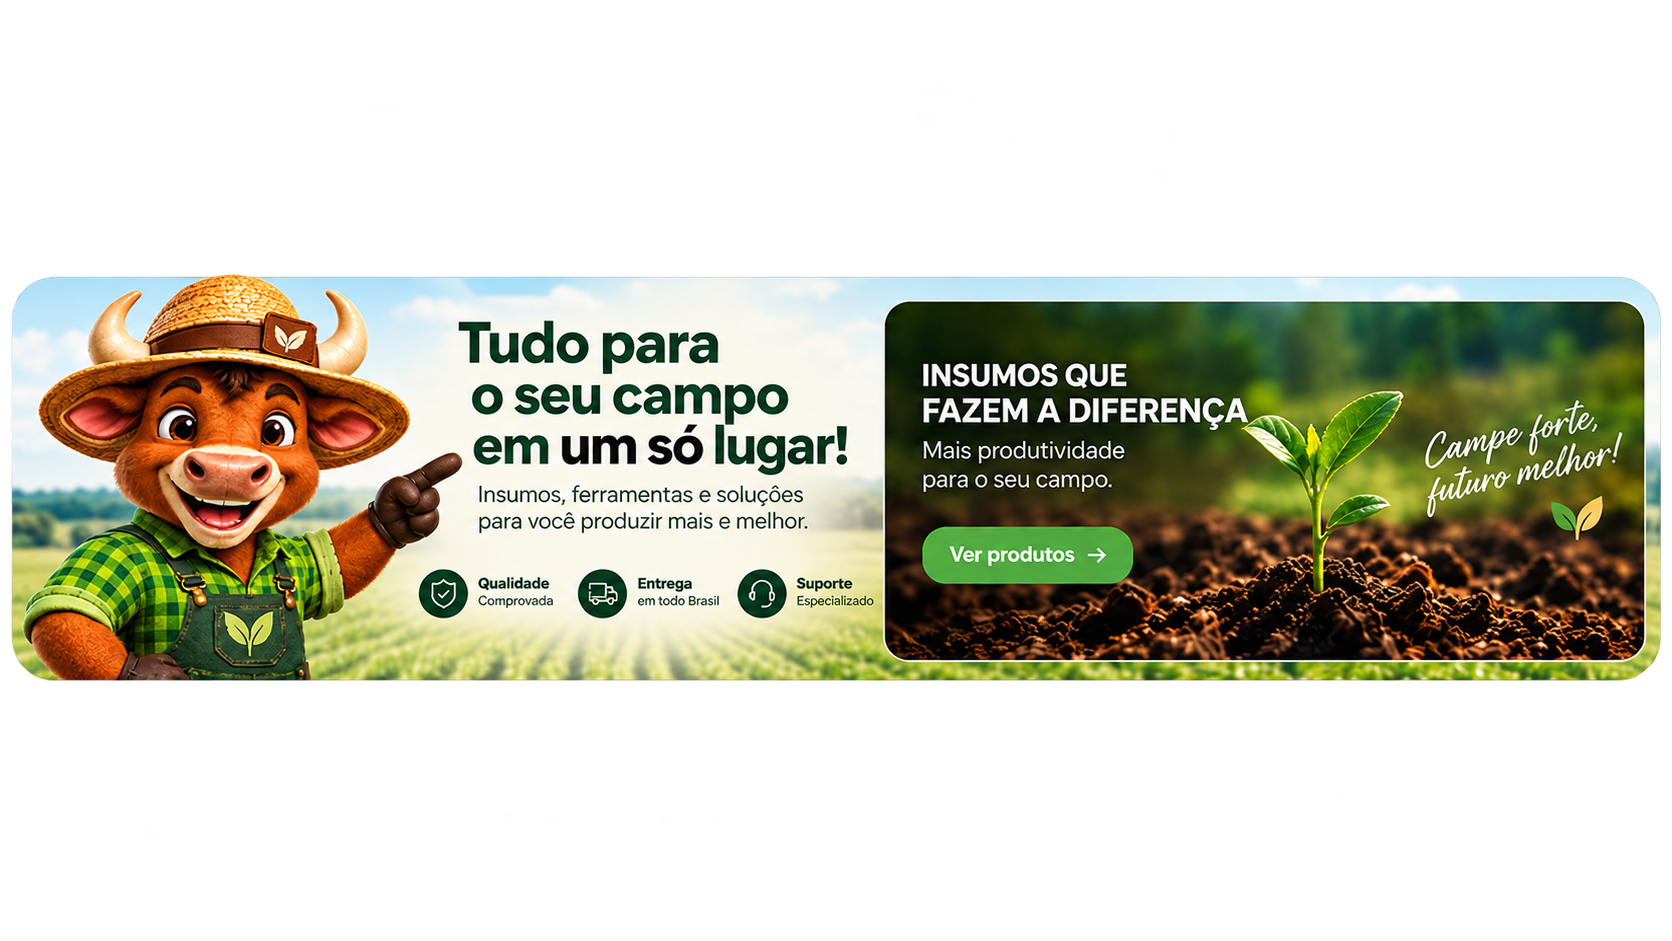
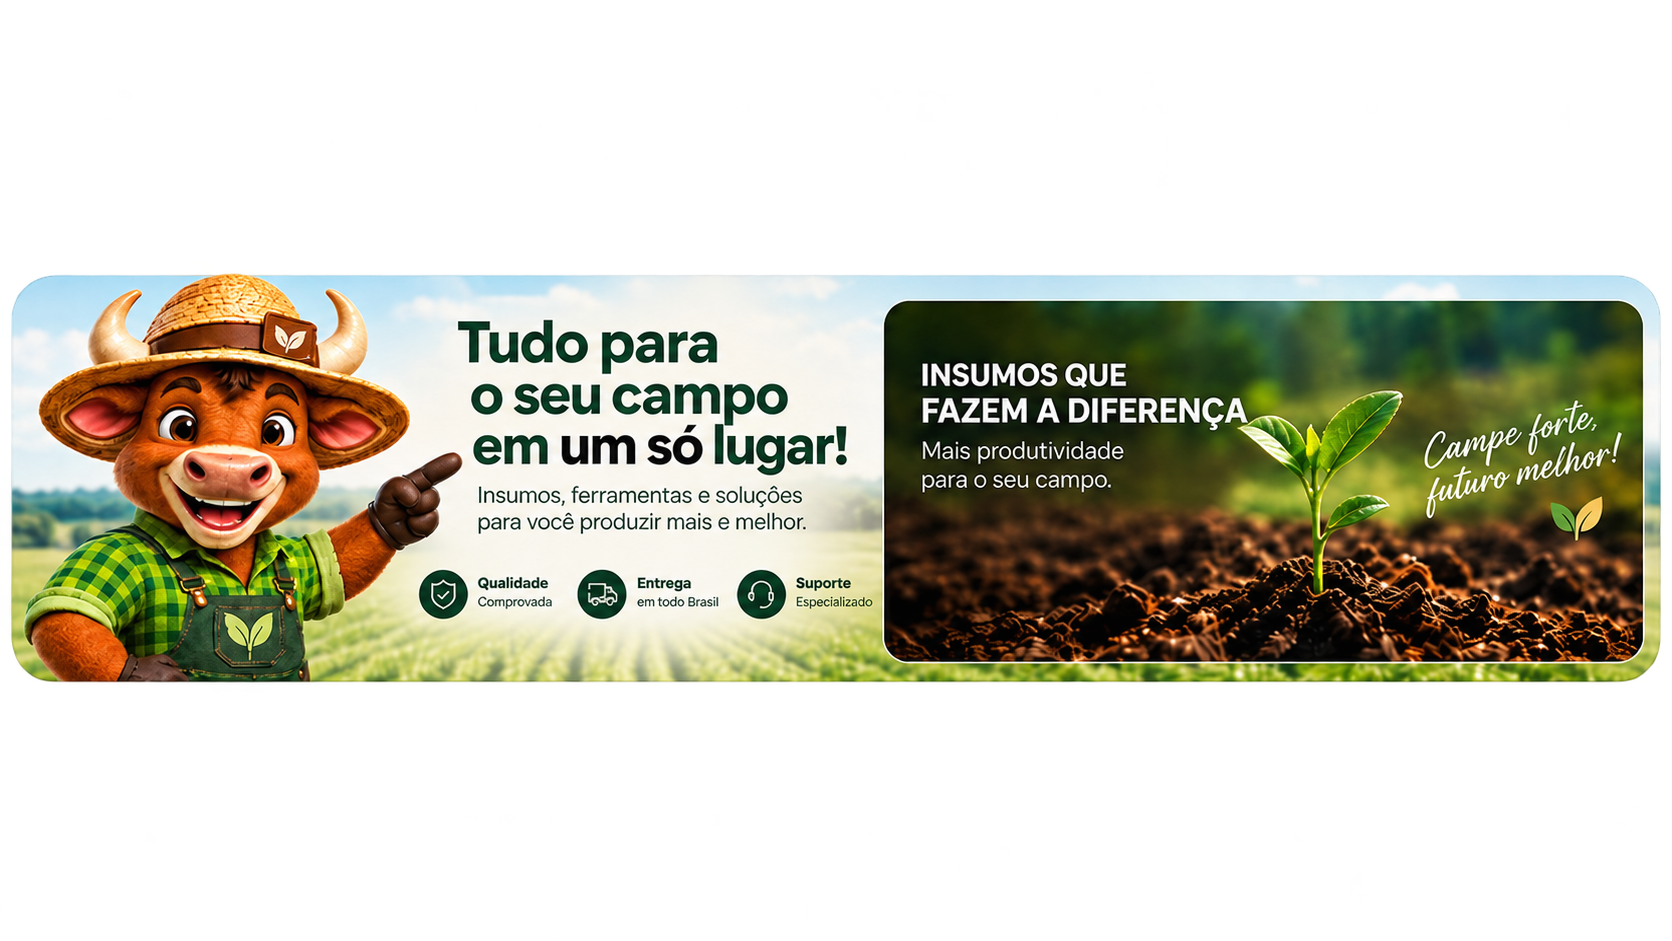
feat: substitui artes e recria botoes do catalogo

diff --git a/e-commerce-AgroAgrega/src/app/features/products/products.css b/e-commerce-AgroAgrega/src/app/features/products/products.css
@@ -41,12 +41,18 @@
 .png-action {
   position: absolute;
   z-index: 3;
+  display: flex;
+  align-items: center;
+  justify-content: center;
   overflow: hidden;
   padding: 0;
-  border: 1px solid transparent;
+  border: 1px solid rgb(220 255 217 / 0.62);
   border-radius: 999px;
-  background: rgb(255 255 255 / 0.01);
+  background: linear-gradient(135deg, #35aa56, #126d3c);
+  color: #ffffff;
+  box-shadow: 0 8px 20px rgb(4 64 33 / 0.28);
   cursor: pointer;
+  font: inherit;
   touch-action: manipulation;
   transition:
     border-color 180ms ease,
@@ -95,8 +101,20 @@
   width: 12.8%;
   height: 14%;
 }
-.png-action__mobile-label {
-  display: none;
+.png-action__label {
+  display: inline-flex;
+  align-items: center;
+  justify-content: center;
+  gap: 10px;
+  color: #ffffff;
+  font-size: clamp(0.66rem, 0.95vw, 0.92rem);
+  font-weight: 850;
+  line-height: 1;
+  text-shadow: 0 1px 2px rgb(0 0 0 / 0.2);
+  white-space: nowrap;
+}
+.png-action__label b {
+  font-size: 1.2em;
 }
 .catalog-main-content {
   display: grid;
@@ -375,6 +393,11 @@
   left: 6.1%;
   width: 42.1%;
   height: 15.5%;
+  border-radius: 13px;
+}
+.png-action--support .png-action__label {
+  gap: 7px;
+  font-size: clamp(0.58rem, 0.82vw, 0.72rem);
 }
 .equipment-banner {
   position: relative;
@@ -1077,12 +1100,8 @@ input:focus-visible {
     background: linear-gradient(135deg, #2d9d4f, #12693a);
     box-shadow: 0 8px 20px rgb(4 64 33 / 0.3);
   }
-  .png-action__mobile-label {
-    display: inline-flex;
-    align-items: center;
-    color: #fff;
+  .png-action--hero .png-action__label {
     font-size: 0.75rem;
-    font-weight: 850;
   }
   .sidebar-content.open {
     grid-template-columns: 1fr;

diff --git a/e-commerce-AgroAgrega/src/app/features/products/products.html b/e-commerce-AgroAgrega/src/app/features/products/products.html
@@ -43,8 +43,7 @@
           (click)="scrollToProducts()"
           aria-label="Ver todos os produtos do catálogo"
         >
-          <span class="visually-hidden">Ver produtos</span>
-          <span class="png-action__mobile-label" aria-hidden="true">Ver produtos →</span>
+          <span class="png-action__label" aria-hidden="true">Ver produtos <b>→</b></span>
         </button>
       </div>
     </header>
@@ -305,7 +304,7 @@
                   [attr.aria-expanded]="assistant.open()"
                   (click)="assistant.show()"
                 >
-                  <span class="visually-hidden">Fale conosco</span>
+                  <span class="png-action__label" aria-hidden="true">Fale conosco <b>→</b></span>
                 </button>
               </div>
               <a
